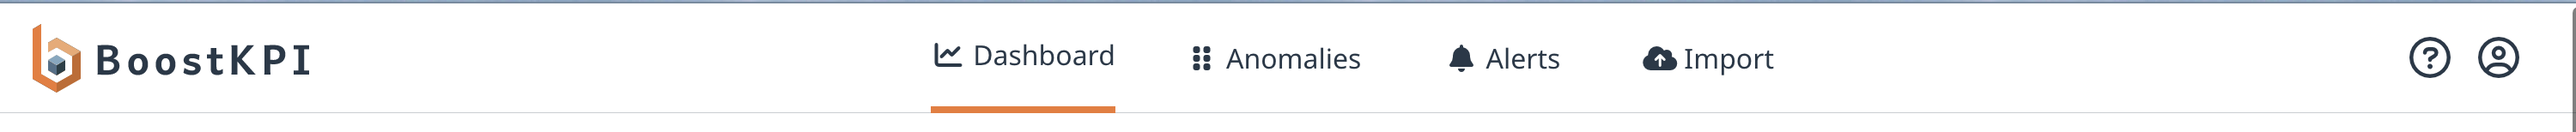
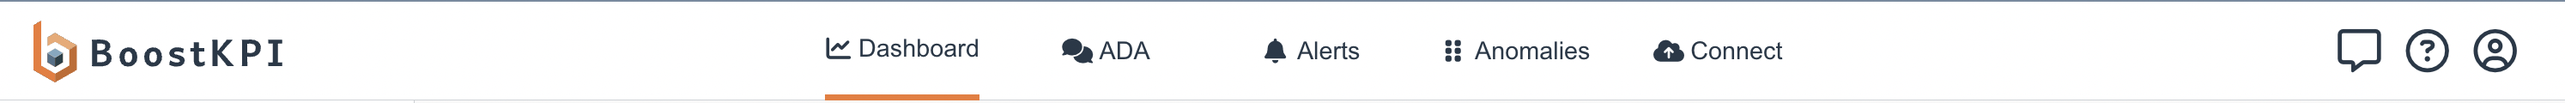
Updated the overview tab

diff --git a/docs/overview/index.md b/docs/overview/index.md
@@ -16,30 +16,63 @@ nav_order: 0
 
 ### What is BoostKPI
 
-[BoostKPI](https://boostkpi.com) is a ML-based platform that helps businesses find insights faster, better, and cheaper. Our key features include:
-- Simple integration with cloud data warehouses  (like Google BigQuery, Amazon RedShift, Snowflake and Databricks) or other SQL databases (like Postgres, MySQL and Clickhouse).
-- Waterfall charts, heatmaps, pivots, and drilldown visualizations for root cause analysis. Support for saving and sharing analyses, as well as receiving their periodic snapshots.
-- Personalized alerts for each stakeholder via email/slack/webHook/text.
-- Users can provide optional feedback on the alerts to improve the signal-to-noise ratio.
+[BoostKPI](https://boostkpi.com) is transforming the way organizations harness
+data with its innovative AI data analyst. This tool makes advanced data
+analysis accessible to non-technical users, enabling them to derive insights
+through simple natural language queries. Already in use by numerous leading
+public companies and fast-growing startups, BoostKPI offers:
 
+- Quick Integration: Effortlessly connect with major cloud data warehouses like
+  Google BigQuery, Amazon RedShift, Snowflake, and Databricks, or SQL databases
+such as Postgres, MySQL, and Clickhouse without data duplication, maintaining
+strict governance and privacy standards.
+- Intelligent and Context-Aware Workspaces: Create customized environments
+  tailored to meet the unique needs of each user in the organization. 
+- Continuous Improvement: Our AI data analyst continuously learns from every
+  interaction, continuously enhancing its analytical capabilities.
+interactions. 
+- Birdseye Visualizations: Offers comprehensive visual tools like Waterfall
+  charts, heatmaps, pivots, and drilldown capabilities for detailed root cause
+analysis. It also supports for saving, sharing and scheduling regular snapshots
+of analyses.
+- Personalized Alerts: Delivers customized alerts through email, Slack,
+  webhook, or text. Users can give feedback on these alerts to refine their
+relevance and accuracy.
 
 
 ### Key features
 
-The application has 4 key areas:
+The application has 5 key areas:
 ##### Dashboard
 Use this tab to customize and access your "dashboard-views", investigate the root cause of any change in KPIs compared to any baseline, and save any investigations as "snapshots". “Snapshots” can be shared amongst team members.
-##### Anomalies 
-Use this tab to view anomalies that resulted from any of your configured alerts. These anomalies, besides being routed to users or to slack/teams, can also be viewed on the dashboard.
+##### ADA
+Use this tab to interact with ADA, our AI Data Analyst. Choose your workspace to access your [own personalized AI analyst](https://blog.boostkpi.com/ai-data-analyst/).  
 ##### Alerts
 Use this tab to set up granular alerts that combine unsupervised learning with business rules. The anomalies resulting from these alerts can be routed intelligently based on both the root cause as well as the magnitude of the deviation. The alerts can also be sent via slack.
+##### Anomalies 
+Use this tab to view anomalies that resulted from any of your configured alerts. These anomalies, besides being routed to users or to slack/teams, can also be viewed on the dashboard.
 ##### Connect
 Use this tab to connect to the cloud data warehouse.
 
 ![Dashboard navigation bar](../../images/nav_bar.png)
 
-### Dashboard overview video
+### Overview 
 
-An overview video of the root-cause analysis page is available at [https://boostkpi.com](https://boostkpi.com).
+[Learn more](https://blog.boostkpi.com/ai-data-analyst/) about our AI Data
+Analyst and how it uses
+[orchestration](https://blog.boostkpi.com/orchestration-llms/) to generate
+useful answers. An overview video of the root-cause analysis page is available
+at [https://boostkpi.com](https://boostkpi.com).
 
-To see configuration options for setting up alerts, please look at [our blog post](https://blog.boostkpi.com/Sample-alerting-configurations/). It also shows an example of a rolling 7-day alert for a daily dataset. 
+To see configuration options for setting up alerts, please look at [our blog
+post](https://blog.boostkpi.com/Sample-alerting-configurations/). It also shows
+an example of a rolling 7-day alert for a daily dataset. You can also create
+these alerts in natural language using our [AI Alert
+Creator](https://blog.boostkpi.com/natural-language-alerts/).
+
+See [examples of how organizations leverage
+BoostKPI](https://blog.boostkpi.com/examples-of-boostkpi-roi/), including case
+studies. [No matter where your organizations data
+sits](https://boostkpi.com/integrations), you can easily leverage BoostKPI.
+[BoostKPI is a partner for several data
+sources](https://boostkpi.com/partners), offering certified integrations.
